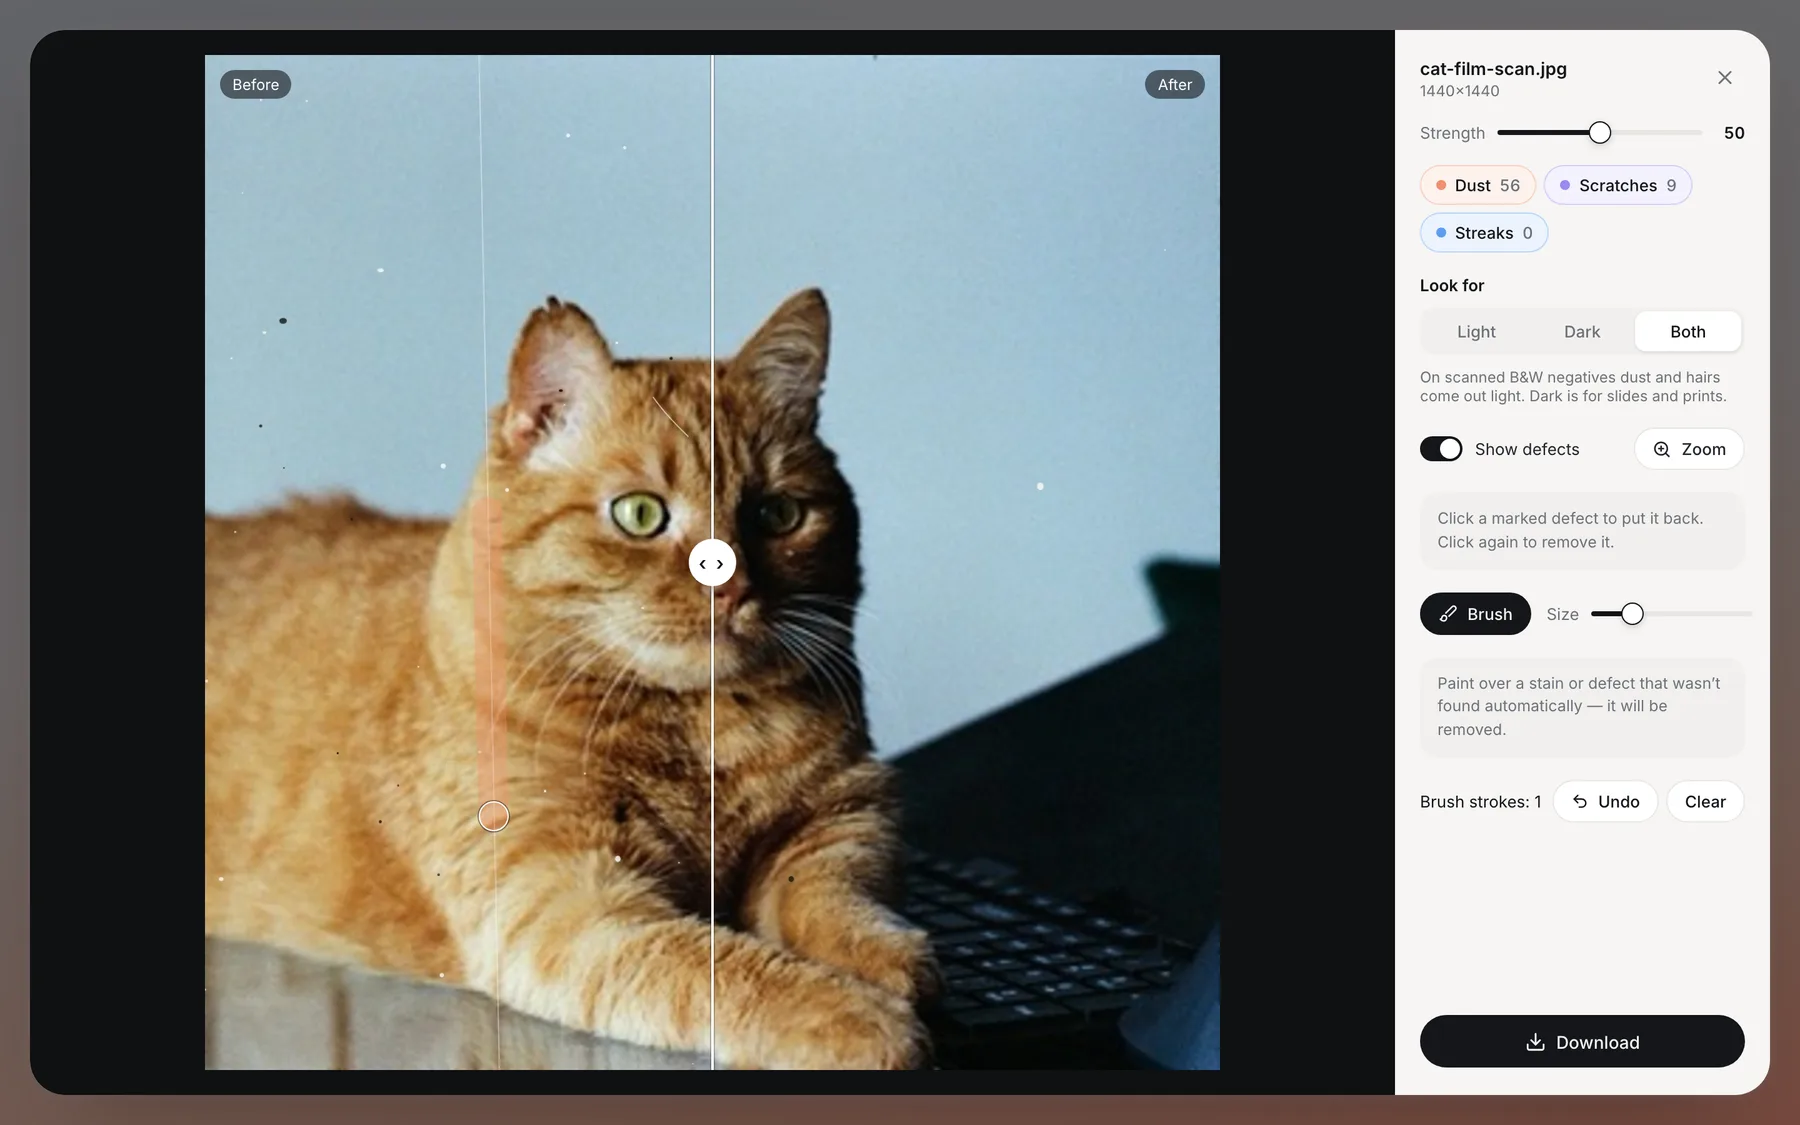
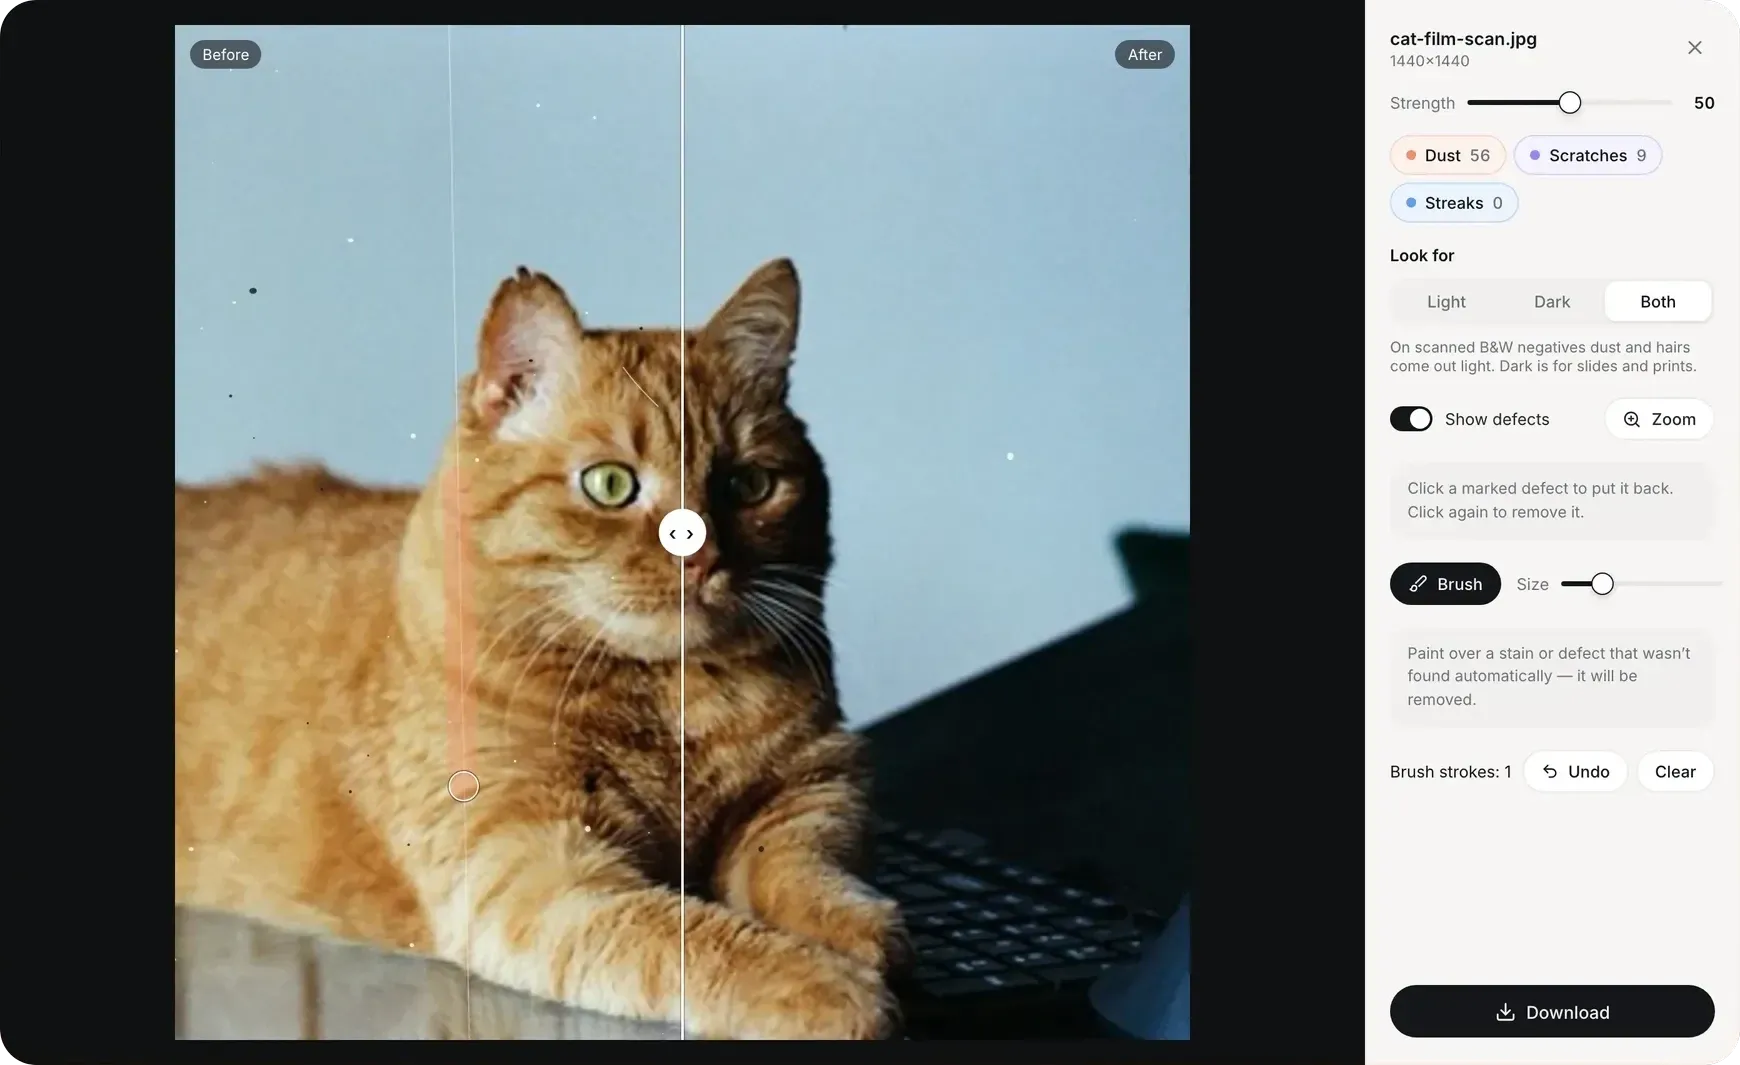
Show the Spotless case frames whole, without the backdrop
The upload and brush windows are cut out of their gradient backdrop and
shown at their own ratio with 16px corners and a hairline edge. The hero
now shows the film roll window whole instead of a cover-cropped scan, so
nothing is cut at any width.

Changed region(s): [[0.0, 0.0, 1.0, 1.0], [0.5276, 0.5887, 0.6207, 0.6507], [0.6207, 0.4958, 0.6517, 0.5887]]

diff --git a/src/data/spotlessCase.js b/src/data/spotlessCase.js
@@ -1,7 +1,7 @@
 /**
  * Spotless — small AI-project case, shown only on the /ai-portfolio landing.
  * Same object shape as designCringeCaseStudy in caseStudies.js.
- * Frames: Playwright captures of the Spotless build (dist), EN UI. The scan is a film photo from
+ * Frames: Playwright captures of the Spotless build (dist), EN UI, windows cut out of their backdrop. The scan is a film photo from
  * src/assets/film with synthetic dust added, so the before/after pair is illustrative, not a real roll.
  * Facts: Spotless README.md, docs/kb/context.md, docs/kb/decisions.md, git log (5 commits, 23–24.10.2026),
  * src/exporter.ts. Not deployed; no prices, no users besides the author.
@@ -10,7 +10,6 @@ import spotlessAfter from '../assets/cases/spotless-after.webp';
 import spotlessBefore from '../assets/cases/spotless-before.webp';
 import spotlessBrush from '../assets/cases/spotless-brush.webp';
 import spotlessCardImage from '../assets/cases/spotless-card.webp';
-import spotlessScan from '../assets/cases/spotless-scan.webp';
 import spotlessUpload from '../assets/cases/spotless-upload.webp';
 
 export const spotlessCaseStudy = {
@@ -22,8 +21,9 @@ export const spotlessCaseStudy = {
       'A browser tool that cleans dust, hairs, scratches and streaks from film scans. I built it for my own scans: everything runs on the device, and photos are never uploaded.',
     meta: 'Side project / Photo tooling',
     image: {
-      src: spotlessScan,
-      alt: 'Spotless detail view: a film scan with found dust and scratches marked, before and after',
+      // The film roll window, cut out on transparency: shown whole, no backdrop.
+      src: spotlessCardImage,
+      alt: 'Spotless film roll: three scans with dust, scratch and streak counts',
     },
     stats: [
       { value: '2 days', label: 'from first commit to the brush' },
@@ -47,6 +47,8 @@ export const spotlessCaseStudy = {
         },
         {
           type: 'imageBand',
+          // The window is cut out of its backdrop, so no plate around it either.
+          variant: 'bare',
           media: {
             type: 'image',
             src: spotlessUpload,

diff --git a/src/styles/global.css b/src/styles/global.css
@@ -3662,6 +3662,35 @@ ol.case-bullet-list li::before {
   }
 }
 
+/*
+ * Spotless: the frames are cut free of their backdrop, so they show whole at
+ * their own ratio at every width — no slot to crop them into, no plate or fill
+ * behind them, only the 16px media corners.
+ */
+.case-page--spotless .case-hero__media {
+  height: auto;
+  border: 0;
+  background: none;
+}
+
+.case-page--spotless .case-hero__media img {
+  display: block;
+  height: auto;
+  object-fit: contain;
+}
+
+.case-page--spotless .case-image-band img,
+.case-page--spotless .case-feature-media img {
+  border-radius: var(--r-media);
+  background: none;
+}
+
+/* The light Spotless windows would melt into the light page: a hairline edge. */
+.case-page--spotless .case-image-band--bare img,
+.case-page--spotless .case-feature-media img {
+  box-shadow: 0 0 0 1px var(--line);
+}
+
 /* Some exported Yandex boards contain a dark matte in their outermost pixels. */
 .case-page--yandex-turkey .case-hero__media,
 .case-page--yandex-turkey .case-feature-media,
